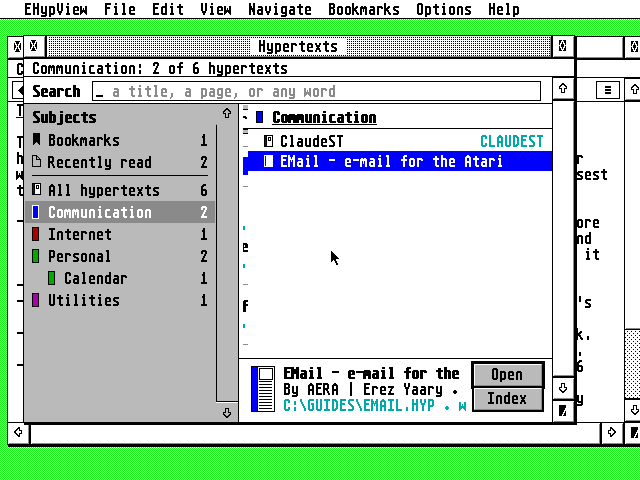
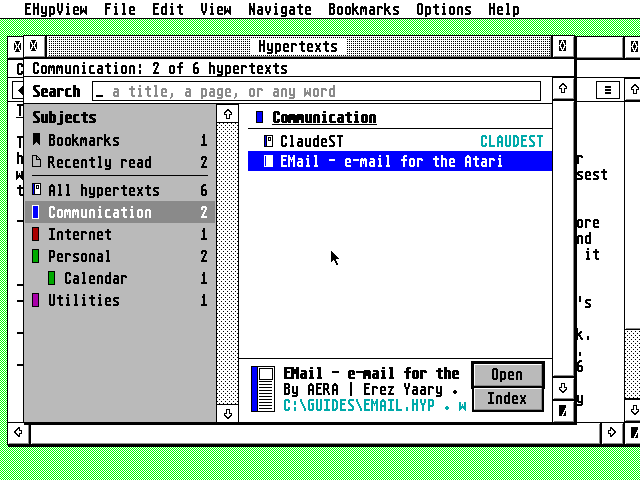
The README's pictures taken in 256 colours
Erez wants every picture of the program in 256 colours (28 Oct 2026).
make shots now runs on Falcon:256 (MACHINE= another), and the README's
pictures are taken again. screenshot.png, settings.png and
library-panes.png changed: the family's newer guides, and TOS 4's
slider track in 256 colours. toolbar.png and library.png came out pixel
for pixel the same: the window uses pens 0-15 and they show no picture.
The help's WINDOW.IMG and the icons stay as they are.

Claude-Session: https://claude.ai/code/session_01X65qqjLaZUDt3o37EHtGdu

Changed region(s): [[0.3125, 0.2188, 0.4062, 0.9062]]

diff --git a/tests/run_gui.py b/tests/run_gui.py
@@ -1111,9 +1111,11 @@ def refile():
 
 
 # the README's pictures (make shots): the family's guides from their latest
-# releases and EHypView's own in C:\\GUIDES, on the Falcon; each step's
-# screenshot named in SHOT_FILES goes to docs/
+# releases and EHypView's own in C:\\GUIDES, on the Falcon in 256 colours
+# (Erez, 28 Oct 2026: the pictures shown are the 256-colour ones; MACHINE=
+# another); each step's screenshot named in SHOT_FILES goes to docs/
 GUIDE = r"C:\GUIDES\EHYPVIEW.HYP"
+SHOT_MACHINE = os.environ.get("MACHINE", "Falcon:256")
 FAMILY = [("ECal", "ECAL"), ("EContact", "ECONTACT"), ("EMail", "EMAIL"), ("EFTP", "EFTP"),
           ("ClaudeST", "CLAUDEST")]
 LONGDIR = r"C:\HYPTEXT\PROGRAMS\DEVELOP\GEMLIB\MANUALS\ENGLISH"
@@ -1182,7 +1184,7 @@ def shots():
             os.remove(os.path.join(g, f))
     xvfb = start_xvfb()
     try:
-        ok = run_scenario("shots", d, SHOT_STEPS, auto=LAUNCH, windowed=True)
+        ok = run_scenario("shots", d, SHOT_STEPS, auto=LAUNCH, windowed=True, machine=SHOT_MACHINE)
     finally:
         xvfb.terminate()
     if ok:

diff --git a/README.md b/README.md
@@ -371,7 +371,7 @@ the AERA programs' shared code, a copy of [AERA-Atari](https://github.com/whompe
 EMail's) makes ST-Guide's source from it, `common/tools/helpfront.py` gives it the AERA programs' front
 page from `docs/front.json`, and `hcp` compiles it; `common/tools/build-hcp.sh DIR` builds `hcp`. The
 front page's window picture, `docs/help/WINDOW.IMG`, is committed: when the viewer changes, `make shots`
-takes it again in Hatari (`common/tools/helpfront.py thumb`), with the README's pictures: the Falcon
+takes it again in Hatari (`common/tools/helpfront.py thumb`), with the README's pictures: the Falcon in 256 colours (`Falcon:256`)
 with the AERA programs' guides from their latest releases (`tests/run_gui.py`, `SHOT_STEPS`). EHypView's own reader checks every page of the result (`hypdump check`).
 
 `build/host/hypdump` inspects any hypertext:
